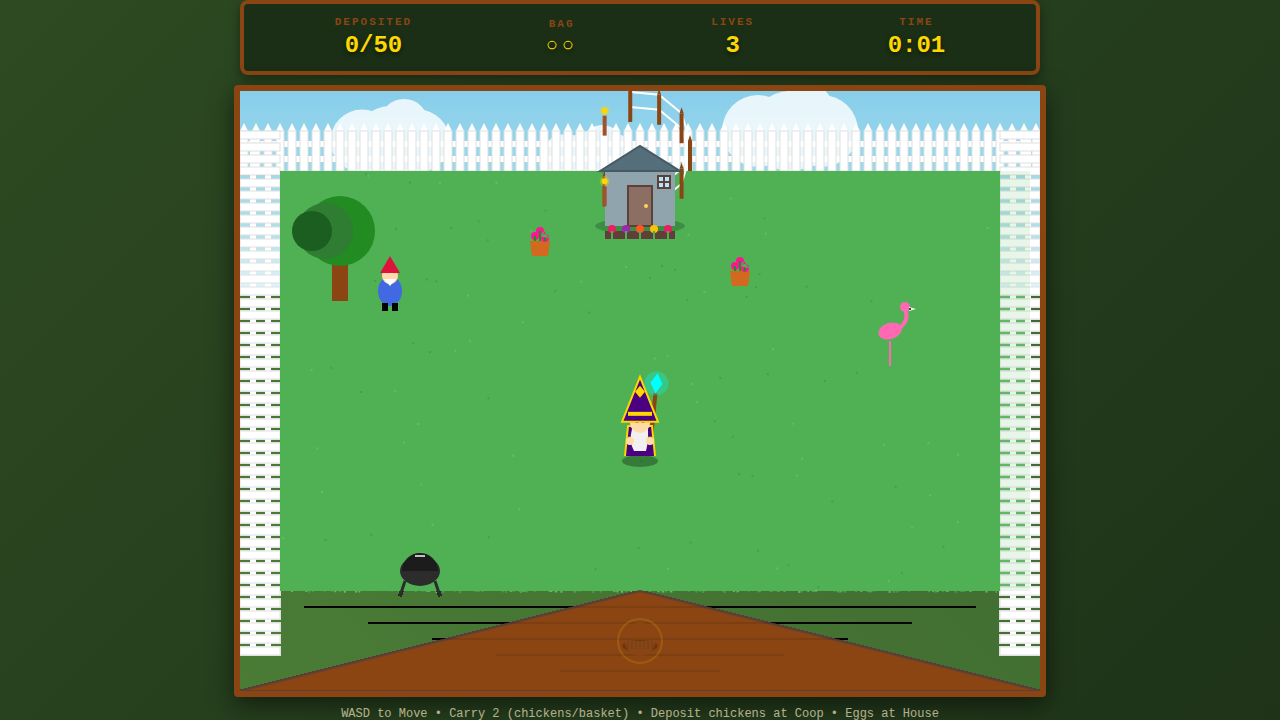
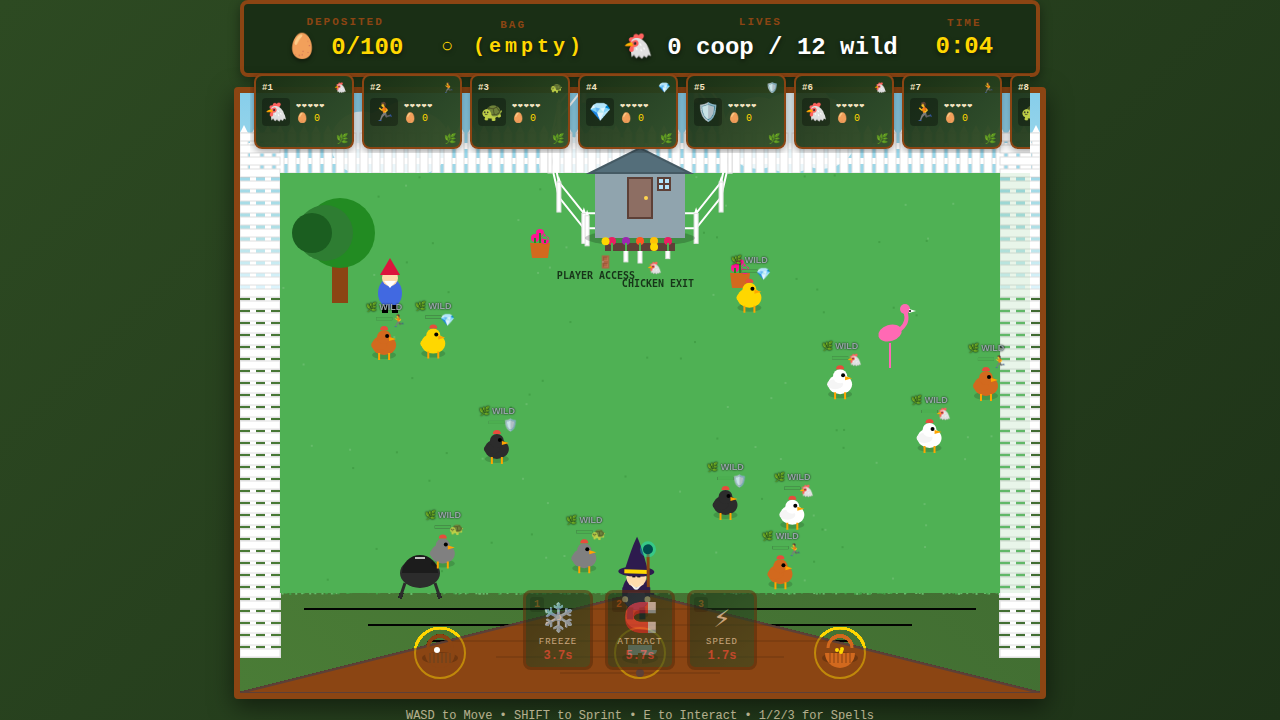
fix: sprint button crash and implement dual chicken collection
- Fix shift key crash: add defensive checks for e.key existence in input.js
- Refactor hero carrying system from single object to array-based (max 2)
- Add canPickUpChicken() and isCarrying() methods
- Add depositAllChickens() for batch deposit
- Update chicken positioning for side-by-side dual carry
- Add bobbing animation with seesaw effect for visual feedback
- Add capacity indicator UI showing current/max chickens
- Update game.js to use new array-based carrying system
- Allow auto-pickup to collect up to 2 chickens when available

diff --git a/hero.js b/hero.js
@@ -46,11 +46,10 @@ class Hero {
         // Trail for sprint
         this.sprintTrail = [];
 
-        // Chicken carrying
+        // Chicken carrying - supports up to 2 chickens
         this.carrying = {
-            isCarrying: false,
-            chickenId: null,
-            chicken: null  // Reference to chicken object
+            chickens: [],           // Array of chicken objects (max 2)
+            maxChickens: 2         // Configurable limit
         };
 
         // Interaction ranges
@@ -62,42 +61,87 @@ class Hero {
 
     // ==================== CHICKEN CARRYING ====================
 
+    canPickUpChicken() {
+        return this.carrying.chickens.length < this.carrying.maxChickens;
+    }
+
     pickUpChicken(chicken) {
-        if (this.carrying.isCarrying) return false;
+        if (!this.canPickUpChicken()) return false;
         if (!chicken.canBePickedUp()) return false;
 
-        this.carrying.isCarrying = true;
-        this.carrying.chickenId = chicken.id;
-        this.carrying.chicken = chicken;
-
+        this.carrying.chickens.push(chicken);
         chicken.pickUp();
         return true;
     }
 
     depositChicken(coop) {
-        if (!this.carrying.isCarrying || !this.carrying.chicken) return false;
+        if (this.carrying.chickens.length === 0) return false;
 
-        const chicken = this.carrying.chicken;
+        // Deposit the first chicken (could deposit all if needed)
+        const chicken = this.carrying.chickens[0];
         const deposited = chicken.depositIntoCoop(coop);
 
         if (deposited) {
             coop.chickens.push(chicken);
-            this.carrying.isCarrying = false;
-            this.carrying.chickenId = null;
-            this.carrying.chicken = null;
+            this.carrying.chickens.shift(); // Remove first chicken
             return true;
         }
 
         return false;
     }
 
-    getCarriedChickenPosition() {
-        // Position chicken above/beside player
-        const offsetX = this.facingDirection === 'right' ? 20 : -20;
-        return {
-            x: this.x + offsetX,
-            y: this.y - 15
-        };
+    depositAllChickens(coop) {
+        if (this.carrying.chickens.length === 0) return 0;
+
+        let depositedCount = 0;
+        // Iterate backwards to safely remove items while iterating
+        for (let i = this.carrying.chickens.length - 1; i >= 0; i--) {
+            const chicken = this.carrying.chickens[i];
+            const deposited = chicken.depositIntoCoop(coop);
+
+            if (deposited) {
+                coop.chickens.push(chicken);
+                this.carrying.chickens.splice(i, 1);
+                depositedCount++;
+            }
+        }
+
+        return depositedCount;
+    }
+
+    getCarriedChickenPosition(index) {
+        // Position chickens side-by-side (dual carry design)
+        if (this.carrying.chickens.length === 1) {
+            // Single chicken - right side
+            const offsetX = this.facingDirection === 'right' ? 20 : -20;
+            return {
+                x: this.x + offsetX,
+                y: this.y - 15
+            };
+        } else if (this.carrying.chickens.length === 2) {
+            // Two chickens - side by side
+            if (index === 0) {
+                // Left chicken
+                const offsetX = this.facingDirection === 'right' ? -14 : 14;
+                return {
+                    x: this.x + offsetX,
+                    y: this.y - 6
+                };
+            } else {
+                // Right chicken
+                const offsetX = this.facingDirection === 'right' ? 14 : -14;
+                return {
+                    x: this.x + offsetX,
+                    y: this.y - 10
+                };
+            }
+        }
+        return { x: this.x, y: this.y };
+    }
+
+    // Helper method to check if carrying chickens
+    isCarrying() {
+        return this.carrying.chickens.length > 0;
     }
     
     update(deltaTime, input, chickens, particleSystem) {
@@ -146,11 +190,17 @@ class Hero {
         // Update active spell effects
         this.updateSpellEffects(deltaTime, chickens);
 
-        // Update carried chicken position
-        if (this.carrying.isCarrying && this.carrying.chicken) {
-            const pos = this.getCarriedChickenPosition();
-            this.carrying.chicken.x = pos.x;
-            this.carrying.chicken.y = pos.y;
+        // Update carried chicken positions with bobbing animation
+        for (let i = 0; i < this.carrying.chickens.length; i++) {
+            const chicken = this.carrying.chickens[i];
+            const pos = this.getCarriedChickenPosition(i);
+
+            // Add bobbing animation - opposite phase for each chicken (seesaw effect)
+            const bobPhase = i === 0 ? 0 : Math.PI; // 180° offset
+            const bobOffset = Math.sin((this.time * 4) + bobPhase) * 2;
+
+            chicken.x = pos.x;
+            chicken.y = pos.y + bobOffset;
         }
     }
 
@@ -473,17 +523,52 @@ class Hero {
     }
     
     drawCarriedChicken(ctx) {
-        if (!this.carrying.isCarrying || !this.carrying.chicken) return;
+        if (this.carrying.chickens.length === 0) return;
 
-        // Draw the carried chicken (it updates its position in update())
-        this.carrying.chicken.draw(ctx);
+        // Draw each carried chicken
+        for (let i = 0; i < this.carrying.chickens.length; i++) {
+            const chicken = this.carrying.chickens[i];
+            chicken.draw(ctx);
 
-        // Draw carrying indicator
+            // Draw carrying indicator
+            ctx.save();
+            ctx.fillStyle = '#3498db';
+            ctx.font = '10px sans-serif';
+            ctx.textAlign = 'center';
+            ctx.fillText('👋', chicken.x, chicken.y - 25);
+            ctx.restore();
+        }
+
+        // Draw capacity indicator when carrying chickens
+        this.drawCapacityIndicator(ctx);
+    }
+
+    drawCapacityIndicator(ctx) {
+        const count = this.carrying.chickens.length;
+        const max = this.carrying.maxChickens;
+
+        // Show indicator above hero's head
+        const indicatorX = this.x;
+        const indicatorY = this.y - 50;
+
         ctx.save();
-        ctx.fillStyle = '#3498db';
-        ctx.font = '10px sans-serif';
+        ctx.font = '12px sans-serif';
         ctx.textAlign = 'center';
-        ctx.fillText('👋', this.carrying.chicken.x, this.carrying.chicken.y - 25);
+
+        // Draw chicken silhouettes
+        for (let i = 0; i < max; i++) {
+            const x = indicatorX + (i - (max - 1) / 2) * 14;
+            if (i < count) {
+                // Filled chicken (carrying)
+                ctx.fillStyle = '#ffd700';
+                ctx.fillText('🐔', x, indicatorY);
+            } else {
+                // Empty slot (outline)
+                ctx.fillStyle = 'rgba(255, 255, 255, 0.3)';
+                ctx.fillText('○', x, indicatorY);
+            }
+        }
+
         ctx.restore();
     }
 

diff --git a/game.js b/game.js
@@ -122,8 +122,8 @@ class Game {
     checkProximityInteractions() {
         const hero = this.hero;
 
-        // 1. Auto-pickup wild chickens
-        if (!hero.carrying.isCarrying) {
+        // 1. Auto-pickup wild chickens (supports dual collection up to max)
+        if (hero.canPickUpChicken()) {
             for (const chicken of this.wildChickens) {
                 if (chicken.state === 'wild') {
                     const dist = Math.hypot(chicken.x - hero.x, chicken.y - hero.y);
@@ -136,21 +136,22 @@ class Game {
                             const idx = this.wildChickens.indexOf(chicken);
                             if (idx > -1) this.wildChickens.splice(idx, 1);
                         }
-                        break; // Only pick up one at a time
+                        // Continue loop to potentially pick up 2nd chicken if space available
+                        if (!hero.canPickUpChicken()) break;
                     }
                 }
             }
         }
 
-        // 2. Auto-deposit to coop
-        if (hero.carrying.isCarrying && hero.carrying.chicken) {
+        // 2. Auto-deposit to coop (deposit all carried chickens)
+        if (hero.isCarrying()) {
             const distToCoop = Math.hypot(hero.x - this.coop.x, hero.y - this.coop.y);
             if (distToCoop < hero.ranges.depositRadius && this.coop.chickens.length < this.coop.maxChickens) {
-                const chicken = hero.carrying.chicken;  // Cache before deposit clears it
-                const deposited = hero.depositChicken(this.coop);
-                if (deposited && chicken) {  // Use cached reference with null guard
-                    this.addBonusText(chicken.x, chicken.y - 30, '+DEPOSITED');
-                    this.particles.spawn(chicken.x, chicken.y, 'poof', 10);
+                // Deposit all chickens (will deposit as many as coop can hold)
+                const depositedCount = hero.depositAllChickens(this.coop);
+                if (depositedCount > 0) {
+                    this.addBonusText(hero.x, hero.y - 30, `+${depositedCount} DEPOSITED`);
+                    this.particles.spawn(hero.x, hero.y, 'poof', 10 * depositedCount);
                 }
             }
         }
@@ -700,8 +701,8 @@ class Game {
 
         const hero = this.hero;
 
-        // Pickup hint - when near wild chicken and not carrying
-        if (!hero.carrying.isCarrying) {
+        // Pickup hint - when near wild chicken and not at max capacity
+        if (hero.canPickUpChicken()) {
             for (const chicken of this.wildChickens) {
                 if (chicken.state === 'wild') {
                     const dist = Math.hypot(chicken.x - hero.x, chicken.y - hero.y);
@@ -728,7 +729,7 @@ class Game {
         }
 
         // Deposit hint - when carrying and near coop
-        if (hero.carrying.isCarrying) {
+        if (hero.isCarrying()) {
             const distToCoop = Math.hypot(hero.x - this.coop.x, hero.y - this.coop.y);
             if (distToCoop < hero.ranges.depositRadius) {
                 this.ctx.save();

diff --git a/input.js b/input.js
@@ -10,15 +10,33 @@ class InputHandler {
 
     setupListeners() {
         window.addEventListener('keydown', (e) => {
-            const key = e.key.toLowerCase();
+            // Defensive check: e.key may be undefined in some browser contexts
+            const rawKey = e.key || e.code || '';
+            const key = rawKey.toLowerCase();
+            if (!key) return; // Skip if no valid key
+
             if (!this.keys[key]) {
                 this.justPressed[key] = true;
             }
             this.keys[key] = true;
+
+            // Also handle shift key variations
+            if (e.code === 'ShiftLeft' || e.code === 'ShiftRight' || key === 'shift') {
+                this.keys['shift'] = true;
+            }
         });
 
         window.addEventListener('keyup', (e) => {
-            this.keys[e.key.toLowerCase()] = false;
+            const rawKey = e.key || e.code || '';
+            const key = rawKey.toLowerCase();
+            if (!key) return;
+
+            this.keys[key] = false;
+
+            // Also handle shift key variations
+            if (e.code === 'ShiftLeft' || e.code === 'ShiftRight' || key === 'shift') {
+                this.keys['shift'] = false;
+            }
         });
     }
 
